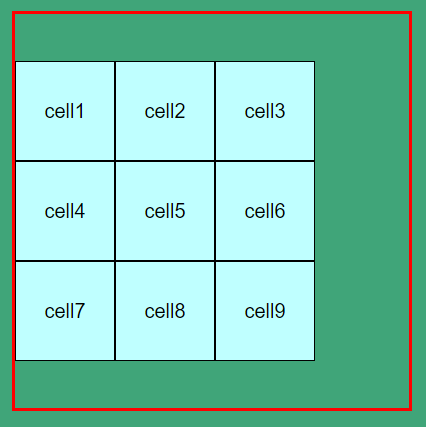
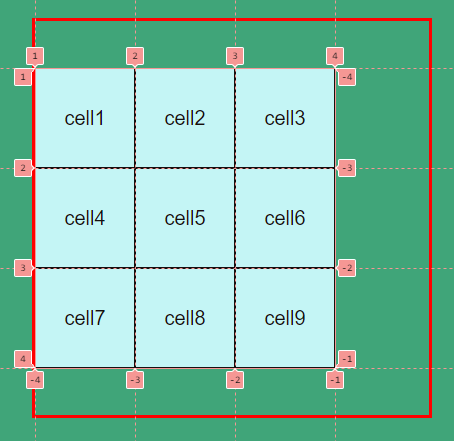
feat: add slide and change images in aligning tracks section

diff --git a/presentation/index.html b/presentation/index.html
@@ -298,7 +298,12 @@ same as
 	grid-template-columns: repeat(3, 100px);
 	grid-template-rows: repeat(3, 100px);
 	border: 3px solid red;
-}</code></pre>
+}</code>
+</pre>
+					</section>
+					<section>
+						<p>Result</p>
+						<pre>  <img data-src="img/tracks/basic-align.png"></pre>
 					</section>
 					<section>
 						<p>justify-content</p>
